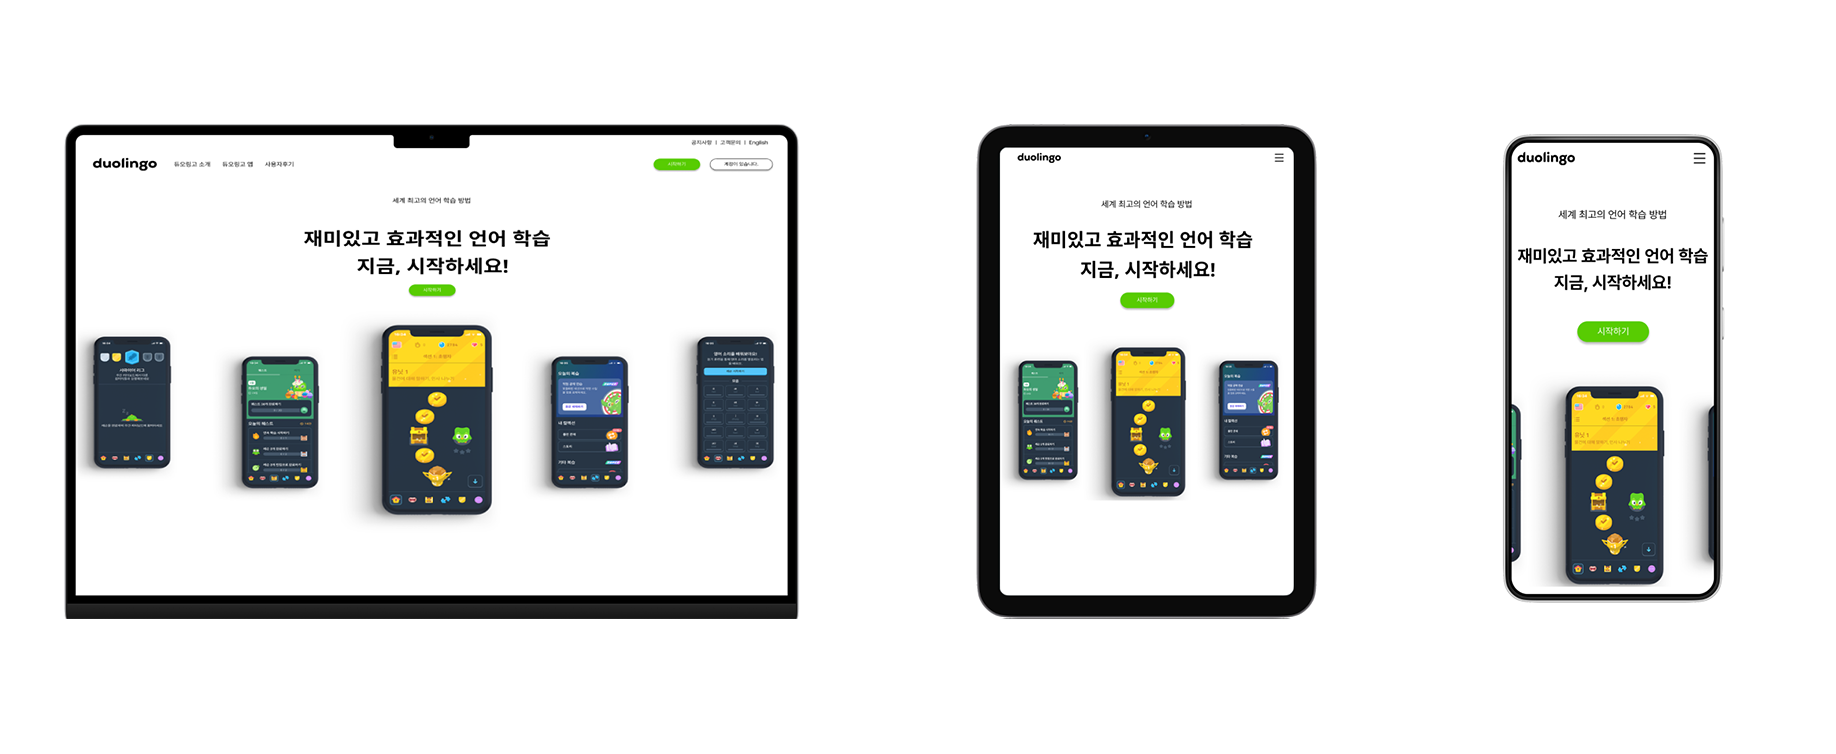
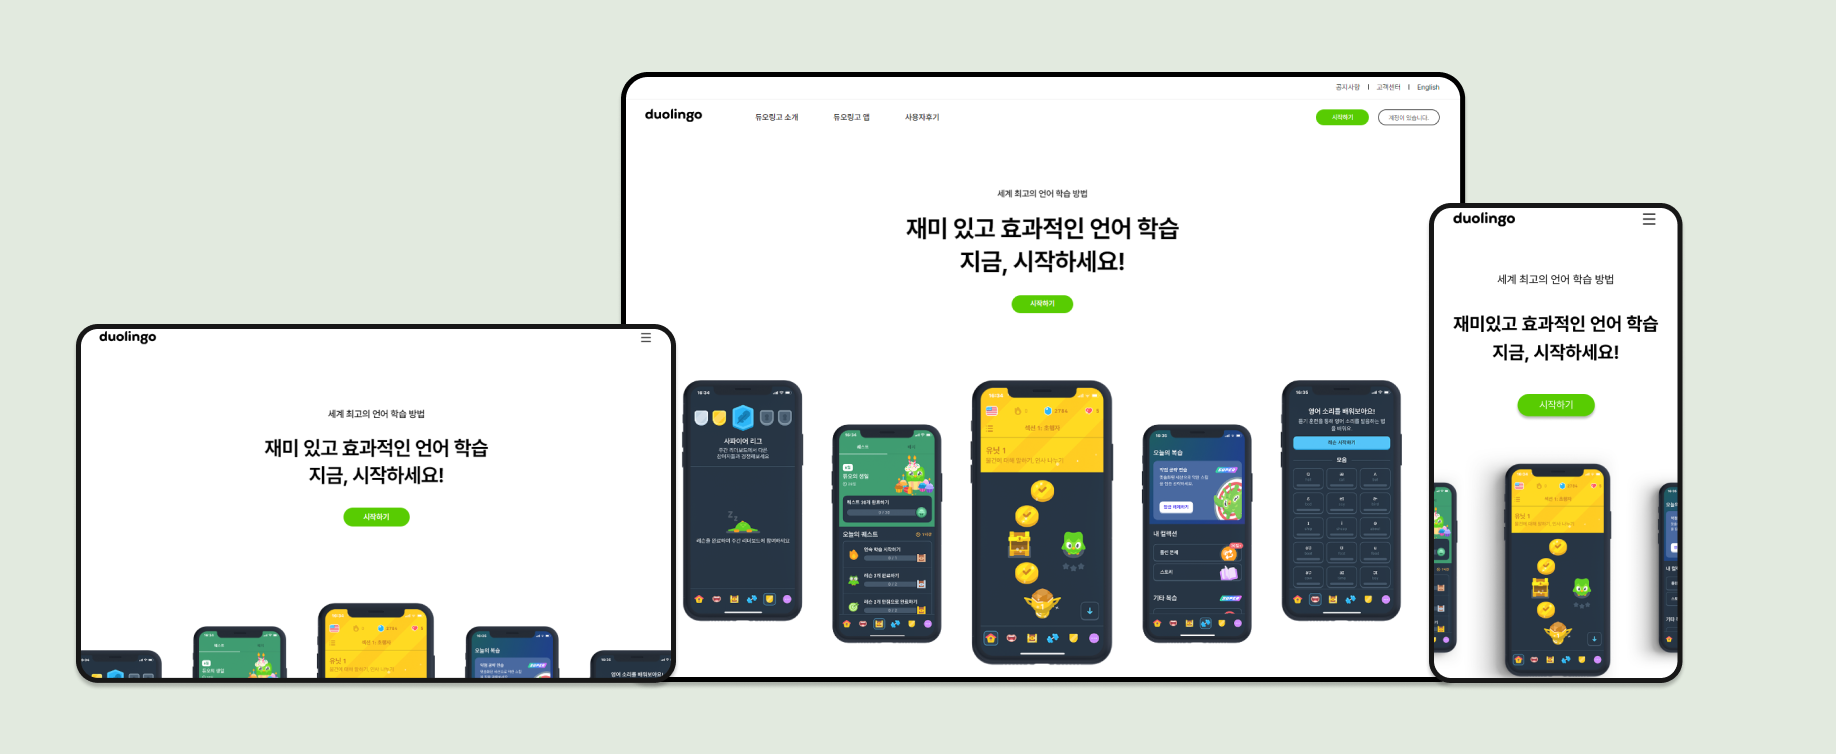
230717 1303 title-img 수정

diff --git a/duolingo/index.html b/duolingo/index.html
@@ -151,14 +151,109 @@
         <div class="s-case flex">
             <div class="s-inner flex">
                 <div class="s-img">
-                    <img src="./images/1.png" alt="단발머리여자와 노트북이 함께 있는 그림">
+                    <svg xmlns="http://www.w3.org/2000/svg" width="154" height="241" viewBox="0 0 154 241" fill="none"
+                        class="svg1">
+                        <path d="M130.863 159.072C132.182 162.288 137.114 169.7 146.281 173.621" stroke="#FFC6B7"
+                            stroke-width="14.7663" stroke-linecap="round" />
+                        <path
+                            d="M136.032 166.57L138.381 173.887C139.651 177.841 137.475 182.075 133.521 183.345L133.521 183.345C129.567 184.614 125.333 182.438 124.063 178.484L121.714 171.167C120.444 167.214 122.621 162.979 126.574 161.71L126.574 161.71C130.528 160.44 134.762 162.616 136.032 166.57Z"
+                            fill="#FFC6B7" />
+                        <path d="M79.2226 219.792C76.8611 225.767 75.4159 229.418 71.5078 232.891" stroke="#FE00EE"
+                            stroke-width="14.4094" stroke-linecap="round" />
+                        <path d="M80.1738 219.792C82.5353 225.767 83.9805 229.418 87.8886 232.891" stroke="#FE00EE"
+                            stroke-width="14.4094" stroke-linecap="round" />
+                        <path
+                            d="M57.2316 71.8795C65.47 69.5521 70.3202 60.9259 68.0646 52.6122C65.8091 44.2986 57.302 39.4459 49.0635 41.7733C40.8251 44.1007 35.975 52.7269 38.2305 61.0406C40.486 69.3542 48.9931 74.2069 57.2316 71.8795Z"
+                            fill="#FF9600" />
+                        <path
+                            d="M67.1168 53.0356C75.5638 50.6492 80.5367 41.8046 78.224 33.2805C75.9114 24.7564 67.189 19.7808 58.7419 22.1671C50.2949 24.5534 45.322 33.3981 47.6347 41.9222C49.9473 50.4463 58.6698 55.4219 67.1168 53.0356Z"
+                            fill="#FF9600" />
+                        <path
+                            d="M14.6471 99.0643C7.53374 84.6983 14.7105 66.5423 30.1678 62.1763L77.9555 48.6753C87.4024 46.0063 97.4177 49.4183 102.171 57.9803C108.26 68.9463 116.402 86.1903 122.495 108.646C128.925 132.348 131.391 155.658 132.328 171.03C132.979 181.714 125.815 191.069 115.536 193.973L67.6909 207.49C52.7765 211.703 37.9061 200.858 36.5966 185.387C35.1981 168.864 32.8576 149.006 29.0683 135.04C25.8876 123.316 20.2075 110.293 14.6471 99.0643Z"
+                            fill="#FFC6B7" />
+                        <path
+                            d="M63.6898 63.9141L63.4178 64.02C55.2976 67.182 51.203 76.3569 54.2724 84.5126C57.3417 92.6683 66.4127 96.7164 74.5329 93.5544L74.8049 93.4484C82.9251 90.2864 87.0197 81.1116 83.9504 72.9559C80.881 64.8002 71.8101 60.752 63.6898 63.9141Z"
+                            fill="white" />
+                        <path
+                            d="M104.39 64.0342C101.87 57.3385 94.4229 54.015 87.7564 56.611C81.0898 59.207 77.7283 66.7393 80.2482 73.435L81.5615 76.9248C84.0814 83.6205 91.5284 86.9439 98.195 84.348C104.861 81.752 108.223 74.2197 105.703 67.524L104.39 64.0342Z"
+                            fill="white" />
+                        <path
+                            d="M87.5143 60.5114L87.5142 60.5114C82.4894 62.4681 79.9557 68.1455 81.855 73.1923L82.073 73.7715C83.9723 78.8182 89.5854 81.3233 94.6102 79.3666L94.6103 79.3666C99.6351 77.4099 102.169 71.7325 100.269 66.6857L100.052 66.1066C98.1522 61.0598 92.5391 58.5548 87.5143 60.5114Z"
+                            fill="#3D3D3D" />
+                        <path
+                            d="M82.9558 72.7162C80.9652 67.4271 75.0826 64.8018 69.8164 66.8524C64.5503 68.9031 61.8949 74.8531 63.8854 80.1423L64.1139 80.7493C66.1044 86.0385 71.9871 88.6638 77.2532 86.6131C82.5194 84.5625 85.1748 78.6124 83.1842 73.3233L82.9558 72.7162Z"
+                            fill="#3D3D3D" />
+                        <path
+                            d="M93.6024 83.0724C95.2888 85.0524 95.0557 88.0504 93.0817 89.7684C91.1077 91.4854 88.1402 91.2724 86.4537 89.2924C84.7672 87.3114 84.2807 79.7384 84.4296 79.6084C84.5786 79.4784 91.9159 81.0924 93.6024 83.0724Z"
+                            fill="#EE9583" />
+                        <path d="M54.8917 88.1831L83.9746 91.0034L81.7649 112.981L52.682 110.161L54.8917 88.1831Z"
+                            fill="#FFC6B7" />
+                        <path fill-rule="evenodd" clip-rule="evenodd"
+                            d="M30.1677 62.1744C14.7105 66.5404 7.53372 84.6964 14.6471 99.0624C15.0904 99.9574 15.5345 100.864 15.9781 101.781L34.9101 95.0404C42.4064 92.3714 46.3876 84.1074 43.8023 76.5824L38.0843 59.9374L30.1677 62.1744Z"
+                            fill="#FFB67A" />
+                        <path
+                            d="M32.7552 106.761C37.2808 105.483 39.9451 100.744 38.7061 96.1774C37.467 91.6104 32.7939 88.9454 28.2683 90.2234C23.7427 91.5024 21.0784 96.2404 22.3174 100.807C23.5564 105.374 28.2296 108.04 32.7552 106.761Z"
+                            fill="#FFC6B7" />
+                        <path
+                            d="M94.5219 95.2636C94.2381 93.4239 92.5166 92.1626 90.6769 92.4464C88.8371 92.7302 87.5758 94.4517 87.8596 96.2915L89.3876 106.195C89.6714 108.035 91.3929 109.297 93.2327 109.013C95.0724 108.729 96.3337 107.007 96.0499 105.168L94.5219 95.2636Z"
+                            fill="#CC4C4C" />
+                        <path
+                            d="M64.6136 77.906C67.1842 77.906 69.2681 75.8221 69.2681 73.2514C69.2681 70.6808 67.1842 68.5968 64.6136 68.5968C62.0429 68.5968 59.959 70.6808 59.959 73.2514C59.959 75.8221 62.0429 77.906 64.6136 77.906Z"
+                            fill="white" />
+                        <path fill-rule="evenodd" clip-rule="evenodd"
+                            d="M81.2207 69.6954C81.2322 66.4614 82.8431 63.3714 85.5607 61.5304C87.2964 62.2064 88.5263 63.8934 88.5263 65.8684C88.5263 68.4394 86.4424 70.5234 83.8717 70.5234C82.8866 70.5234 81.9729 70.2174 81.2207 69.6954Z"
+                            fill="white" />
+                        <path d="M79.5412 77.5853C79.4537 78.8983 79.0159 80.2993 77.6152 81.4373" stroke="white"
+                            stroke-width="3.53106" stroke-linecap="round" />
+                        <path d="M96.555 70.8474C96.4674 72.1604 96.0297 73.5614 94.6289 74.6994" stroke="white"
+                            stroke-width="3.53106" stroke-linecap="round" />
+                        <path fill-rule="evenodd" clip-rule="evenodd"
+                            d="M71.7255 122.529C58.3943 126.295 40.2608 132.324 29.3342 136.036C30.9016 142.035 32.2141 149.04 33.3096 156.363L27.0781 179.617L36.3161 182.093C36.4161 183.204 36.512 184.303 36.6038 185.387C37.9133 200.858 52.7837 211.703 67.6981 207.49L115.544 193.973C125.823 191.069 132.987 181.714 132.336 171.03C132.177 168.426 131.974 165.594 131.716 162.571L139.786 159.709L124.546 116.733C124.026 114.535 123.474 112.326 122.888 110.112C116.944 111.414 89.7667 117.432 71.7255 122.529Z"
+                            fill="url(#paint0_linear_412_503)" />
+                        <path fill-rule="evenodd" clip-rule="evenodd"
+                            d="M109.103 10.0763C108.727 12.6043 107.11 14.6413 104.962 15.6623L96.4061 21.5713C95.1547 22.4363 93.4474 22.1823 92.5017 20.9913L86.0305 12.8414C84.2774 11.2394 83.3269 8.82335 83.7024 6.29835C84.3023 2.26535 88.0582 -0.518659 92.0914 0.0813407C94.2296 0.399341 96.0165 1.60435 97.1343 3.26735C98.6874 2.00235 100.748 1.36933 102.886 1.68733C106.919 2.28633 109.702 6.04234 109.103 10.0763Z"
+                            fill="#FF5555" />
+                        <path fill-rule="evenodd" clip-rule="evenodd"
+                            d="M0.913334 45.3614C1.91891 46.8084 3.53858 47.5744 5.17704 47.5524L11.4811 48.4714C12.9861 48.6904 14.4034 47.7053 14.7224 46.2183L16.0586 39.9893C16.6495 38.4623 16.4958 36.6773 15.4906 35.2313C13.8818 32.9163 10.7013 32.3444 8.38673 33.9534C7.1599 34.8064 6.42259 36.1004 6.24007 37.4734C4.88931 37.1654 3.41864 37.4054 2.19139 38.2584C-0.123216 39.8664 -0.695426 43.0474 0.913334 45.3614Z"
+                            fill="#FF5555" />
+                        <path fill-rule="evenodd" clip-rule="evenodd"
+                            d="M146.657 86.4513C145.651 87.8983 144.031 88.6643 142.393 88.6423L136.089 89.5613C134.584 89.7803 133.166 88.7953 132.847 87.3083L131.511 81.0793C130.92 79.5523 131.074 77.7673 132.079 76.3213C133.688 74.0063 136.869 73.4343 139.183 75.0433C140.41 75.8953 141.147 77.1903 141.33 78.5623C142.681 78.2553 144.151 78.4943 145.378 79.3473C147.693 80.9563 148.265 84.1373 146.657 86.4513Z"
+                            fill="#FF5555" />
+                        <path d="M96.5035 126.24C96.5351 129.513 93.5264 136.115 89.2969 139.268" stroke="white"
+                            stroke-width="5.76377" stroke-linecap="round" />
+                        <path d="M105.904 123.715C107.522 126.918 107.802 133.584 106.2 138.78" stroke="white"
+                            stroke-width="5.76377" stroke-linecap="round" />
+                        <path opacity="0.2" fill-rule="evenodd" clip-rule="evenodd"
+                            d="M56.1577 169.853C56.7763 167.561 57.2486 165.337 57.5643 163.322C58.0105 160.474 58.1632 157.925 57.9128 156.172C57.7956 155.352 57.0358 154.782 56.2157 154.899C55.3956 155.016 54.8258 155.776 54.9429 156.596C55.1294 157.902 55.0329 160.098 54.6005 162.858C54.1736 165.582 53.438 168.742 52.4204 171.927C51.7274 174.097 50.7041 176.209 49.6631 178.358C49.4671 178.763 49.2703 179.169 49.0751 179.577C47.8833 182.067 46.7189 184.681 46.437 187.218C46.3455 188.042 46.9388 188.783 47.7622 188.875C48.5855 188.966 49.3272 188.373 49.4187 187.549C49.6368 185.587 50.5692 183.404 51.7812 180.872C51.9628 180.492 52.1505 180.105 52.3413 179.712C53.2849 177.766 54.3051 175.663 55.0568 173.503C63.9935 169.811 80.6867 165.823 96.0763 162.538C103.922 160.864 111.381 159.381 117.224 158.222L117.86 158.096C123.331 157.011 128.556 155.764 129.928 155.384L129.128 152.492C127.866 152.842 122.672 154.083 116.938 155.22L116.64 155.28C110.797 156.439 103.319 157.925 95.45 159.604C81.3065 162.623 65.743 166.298 56.1577 169.853Z"
+                            fill="black" />
+                        <mask id="mask0_412_503" style="mask-type:alpha" maskUnits="userSpaceOnUse" x="5" y="175"
+                            width="43" height="40">
+                            <path d="M47.8474 185.189L12.873 175.817L5.03226 205.078L40.0066 214.45L47.8474 185.189Z"
+                                fill="#2FE3FF" />
+                        </mask>
+                        <g mask="url(#mask0_412_503)">
+                            <path d="M34.9223 180.897C33.6024 184.112 28.6709 191.524 19.5039 195.445" stroke="#FFC6B7"
+                                stroke-width="14.7663" stroke-linecap="round" />
+                            <path
+                                d="M33.3381 177.768L29.5938 193.638C28.6402 197.68 31.1436 201.729 35.1852 202.683L35.1852 202.683C39.2269 203.637 43.2763 201.133 44.2298 197.092L47.9742 181.221C48.9277 177.18 46.4244 173.13 42.3827 172.177L42.3827 172.177C38.341 171.223 34.2917 173.727 33.3381 177.768Z"
+                                fill="#FFC6B7" />
+                        </g>
+                        <defs>
+                            <linearGradient id="paint0_linear_412_503" x1="64.5052" y1="109.995" x2="113.255"
+                                y2="194.599" gradientUnits="userSpaceOnUse">
+                                <stop stop-color="#26F663" />
+                                <stop offset="0.505208" stop-color="#268AFF" />
+                                <stop offset="1" stop-color="#FC55FF" />
+                            </linearGradient>
+                        </defs>
+                    </svg>
                 </div>
                 <div class="s-t-box flex">
                     <div class="s-txt">
-                        <a href="#">리스닝</a>
+                        리스닝
                     </div>
                     <div class="s-txt">
-                        <a href="#">듣기 훈련</a>
+                        듣기 훈련
                     </div>
                 </div>
             </div>

diff --git a/duolingo/duolingo.html b/duolingo/duolingo.html
@@ -64,7 +64,7 @@
             <h3 class="wt-title">Style Guide</h3>
             <div class="box">
                 <h4 class="sub-title">keyword</h4>
-                <p class="sub-text">#남녀노소 #친숙함 #손쉬운</p>
+                <p class="sub-text">#남녀노소&nbsp;&nbsp;&nbsp;#친숙함&nbsp;&nbsp;&nbsp;#손쉬운</p>
             </div>
             <div class="box">
                 <h4 class="sub-title">Concept</h4>
@@ -104,7 +104,7 @@
                         <p class="color color3">#FFFFF</p>
                         <p class="color color4">#F0F0F0</p>
                         <p class="color color5">#242424</p>
-                        <p class="color color6">#F0F0F0</p>
+                        <p class="color color6">#171717</p>
                     </div>
                 </div>
             </div>
@@ -113,18 +113,15 @@
         <!-- publishing -->
         <section class="publishing">
             <h3 class="wt-title">Publishing</h3>
-            <div class="box-inner flex">
-                <p class="sub-text">Breakpoints<span>Mobile기준: 414px 이하</span>PC:1400px이상 Tablet:769px 이상</p>
-                <p class="sub-text space1">Media Query를 이용한 반응형 제작<span>@media="(width >=px)”</span></p>
-            </div>
-            <div class="box-inner flex">
-                <p class="sub-text">학습 가능 언어목록은 국기로<span>Animation을 활용해 움직임 효과 적용</span></p>
-                <p class="sub-text space2">PC 에서의 사용자 접근성을 높이기 위한<span>mouse hover 적용</span></p>
-            </div>
-            <div class="box-inner flex">
-                <p class="sub-text">grid, flex를 활용한 레이아웃 정렬</p>
-                <p class="sub-text space3">Mobile, Tablet Menu 버튼 스크립트</p>
-            </div>
+            <ul class="box-inner flex">
+                <li class="sub-text">Breakpoints<span class="blank">Mobile 기준: 414px 이하</span>PC: 1400px이상
+                    Tablet: 769px 이상</li>
+                <li class="sub-text">Media Query를 이용한 <strong class="accent">반응형</strong> 제작 @media="(width >=px)”</li>
+                <li class="sub-text">학습 가능 언어목록은 국기로 Animation을 활용해 움직임 효과 적용</li>
+                <li class="sub-text">PC에서의 사용자 <strong class="accent">접근성</strong>을 높이기 위한 mouse hover 적용</li>
+                <li class="sub-text">grid, flex를 활용한 레이아웃 정렬</li>
+                <li class="sub-text">Mobile, Tablet Menu 버튼 스크립트</li>
+            </ul>
         </section>
 
         <!--problem & solution-->
@@ -136,20 +133,25 @@
             </div>
             <div class="box">
                 <h6 class="sub-title bg2">무한 div에 온걸 환영해</h6>
-                <p class="sub-text">리서치섹션에 배열이 틀어진다.<span>요소에 div를 감싸고 감싸 flex를 적용하여 한 눈에 보기 쉽게 완성</span></p>
+                <p class="sub-text">리서치섹션에 배열이 틀어진다.<span class="blank">요소에 div를 감싸고 감싸 flex를 적용하여 한 눈에 보기 쉽게 완성</span>
+                </p>
             </div>
             <div class="box">
                 <h6 class="sub-title bg3">캐릭터가 그래서 몇갠데? </h6>
-                <p class="sub-text">디바이스 별 반응형 레이아웃 맞추기가 어려워 Mobile 3개 Tablet, PC 4개 구성 하였다가<span>html div 구조를 변경하여 전체가
+                <p class="sub-text">디바이스 별 반응형 레이아웃 맞추기가 어려워 <span class="blank">Mobile 3개 Tablet, PC 4개 구성
+                        하였다가</span><span class="blank">html div
+                        구조를 변경하여 전체가
                         보일수있게 flex로 반응형 레이아웃 구성</span></p>
             </div>
             <div class="box">
                 <h6 class="sub-title bg4">글자가 많은데? 잘 읽힐까?</h6>
-                <p class="sub-text">이미지에 힘을 빼고 폰트에 힘을 줌, 폰트 강약 조절, 반응형 디바이스에 맞게 폰트사이즈 조절</p>
+                <p class="sub-text">이미지에 힘을 빼고 폰트에 힘을 줌,<span class="blank"> 폰트 강약 조절, 반응형 디바이스에 맞게 폰트사이즈 조절</span></p>
             </div>
             <div class="box">
                 <h6 class="sub-title bg5">애니메이션 img가 잘려요</h6>
-                <p class="sub-text">국기img를 감싸고 있는 박스 부모에게 width값을 넘치게 주고<span>최상위 부모에게 overflow: hidden;을 부여하여 해결</span>
+                <p class="sub-text">국기img를 감싸고 있는 박스 부모에게 width값을 넘치게 주고<span class="blank">최상위 부모에게 <strong
+                            class="accent">overflow: hidden;</strong>을
+                        부여하여 해결</span>
                 </p>
             </div>
         </section>

diff --git a/duolingo/duolingo.css b/duolingo/duolingo.css
@@ -30,28 +30,40 @@ main {
 }
 .title .title-img {
   width: 96%;
-  height: 44rem;
-  outline: 5px solid var(--gray-color);
-  margin-left: 2rem;
-  background: url(./images/title-img.png) no-repeat center center / 100% 100%;
+  height: 754px;
+  outline: 5px solid #fff;
+  background: url(./images/title-img.png) no-repeat 50% 50% / cover;
+  padding: 0 4%;
+  margin: 0 auto;
+  min-width: 1400px;
+  max-width: 1920px;
+}
+.title .title-img img {
+  width: 1836px;
+  height: 754px;
 }
 .title .intro {
-  font-size: var(--font-size20);
+  font-size: var(--font-size22);
   align-items: center;
   justify-content: space-evenly;
   margin: 6.25rem auto;
   min-width: 1400px;
   max-width: 1920px;
 }
+.title .intro .intro-text {
+  width: 38vw;
+  font-size: var(--font-size26);
+}
 .title .intro .intro-list1 {
-  color: var(--gray-color);
+  color: #696969;
+  font-weight: 700;
 }
 .title .intro .intro-list1 li,
 .title .intro .intro-list2 li {
   margin-bottom: 1rem;
 }
 .title .intro .intro-list2 {
-  margin-left: -8.8rem;
+  margin-left: -200px;
 }
 .line::before {
   display: inline-block;
@@ -93,7 +105,7 @@ h4.sub-title {
   margin-top: 5rem;
 }
 /*** sub-text ***/
-p.sub-text {
+.sub-text {
   font-size: var(--font-size22);
   margin-top: 2rem;
 }
@@ -165,16 +177,16 @@ p.sub-text {
   max-width: 1920px;
 }
 .publishing .box-inner {
-  align-items: center;
+  flex-direction: column;
+  align-items: flex-start;
+  list-style: disc;
 }
-.space1 {
-  margin-left: 6rem;
+.accent {
+  background-color: var(--gray-color);
+  width: 2.2rem;
 }
-.space2 {
-  margin-left: 5.4rem;
-}
-.space3 {
-  margin-left: 7.8rem;
+.blank {
+  margin: 10px 0;
 }
 
 /***** problem *****/
@@ -184,33 +196,33 @@ p.sub-text {
 }
 h6.sub-title {
   background-color: var(--gray-color);
-  font-size: var(--font-size28);
+  font-size: var(--font-size22);
   font-weight: 700;
   text-align: center;
   margin-top: 5rem;
 }
 .bg1 {
-  width: 18rem;
+  width: 16rem;
   height: 3.8rem;
   line-height: 3.8rem;
 }
 .bg2 {
-  width: 20rem;
+  width: 18rem;
   height: 3.8rem;
   line-height: 3.8rem;
 }
 .bg3 {
-  width: 20rem;
+  width: 18rem;
   height: 3.8rem;
   line-height: 3.8rem;
 }
 .bg4 {
-  width: 22rem;
+  width: 19rem;
   height: 3.8rem;
   line-height: 3.8rem;
 }
 .bg5 {
-  width: 21rem;
+  width: 19rem;
   height: 3.8rem;
   line-height: 3.8rem;
 }

diff --git a/duolingo/index.css b/duolingo/index.css
@@ -315,6 +315,7 @@ header .menu-wrapper {
 }
 /*** img ***/
 .s-case {
+  width: 100%;
   flex-direction: column;
   align-items: center;
 }
@@ -326,11 +327,9 @@ header .menu-wrapper {
   transition-delay: 0.6s;
 }
 .s-case .s-inner .s-img {
-  width: 70%;
-  margin-bottom: 30px;
+  margin-bottom: 1.875rem;
 }
 .s-case .s-inner .s-img img {
-  height: 200px;
 }
 .s-t-box .s-txt {
   width: 110px;
@@ -670,7 +669,7 @@ header .menu-wrapper {
   color: #000;
 }
 .f-box .f-inner .f-txt li .f-line::before {
-  content: "";
+  content: '';
   display: inline-block;
   width: 1px;
   height: 8px;
@@ -678,7 +677,7 @@ header .menu-wrapper {
   background-color: #000;
 }
 .f-box .f-inner .f-txt li .f-line::after {
-  content: "";
+  content: '';
   display: inline-block;
   width: 1px;
   height: 8px;

diff --git a/duolingo/variable.css b/duolingo/variable.css
@@ -22,6 +22,7 @@
   --font-size20: 1.25rem;
   --font-size22: 1.375rem;
   --font-size24: 1.5rem;
+  --font-size25: 1.563rem;
   --font-size26: 1.625rem;
   --font-size28: 1.75rem;
   --font-size30: 1.875rem;
